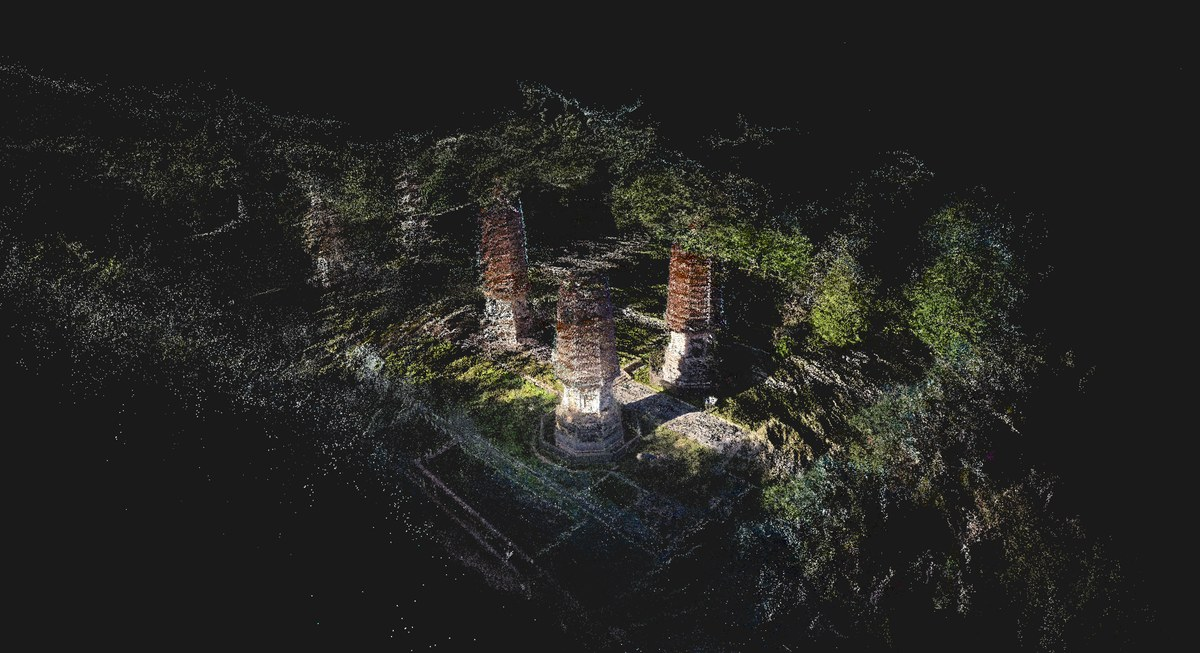
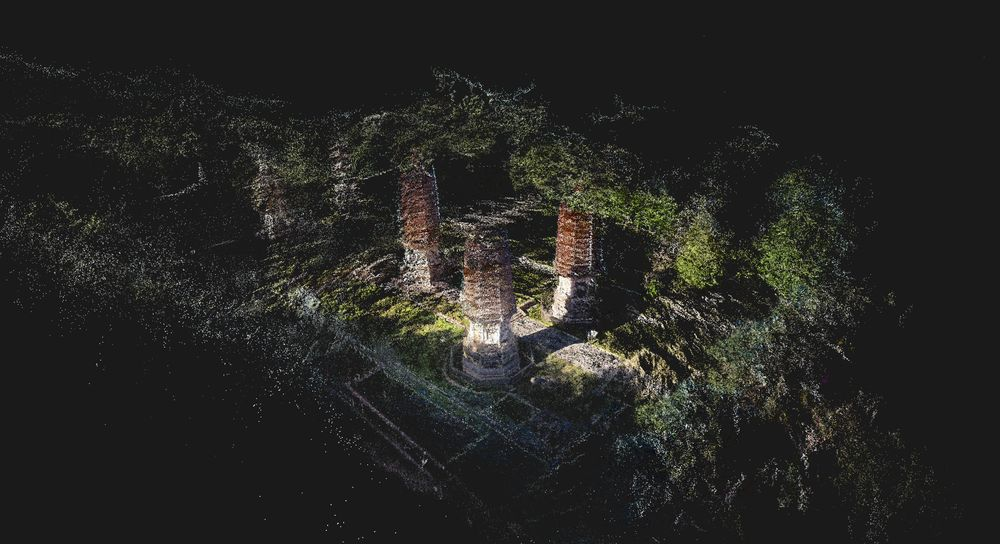
chore: compress showcase images and remove personal paths
compress gif 5.2MB->2.3MB, static/real images; replace personal 20260823 paths in README/config/bootstrap

diff --git a/skill/scripts/bootstrap.py b/skill/scripts/bootstrap.py
@@ -23,18 +23,10 @@ from pathlib import Path
 GITHUB_REPO = "https://github.com/FemtoRhythm/insta360-3dgs"
 
 # 本机已知部署位置，作为「自动识别」的候选路径；可自行增删。
-_KNOWN_PROJECT_CANDIDATES = [
-    Path(r"d:\Documents\WorkSpace\python\i2\20260828_3\insta360-3dgs"),
-]
-_KNOWN_MEDIASDK_CANDIDATES = [
-    Path(r"d:\Documents\WorkSpace\python\i2\20260828_3\sdk\MediaSDK\bin\MediaSDKTest.exe"),
-]
-_KNOWN_GS_DIR_CANDIDATES = [
-    Path(r"d:\Documents\WorkSpace\python\i2\20260828_3\20260823_1\gaussian-splatting"),
-]
-_KNOWN_PYLIBS_CANDIDATES = [
-    Path(r"d:\Documents\WorkSpace\python\i2\20260828_3\20260823_1\pylibs"),
-]
+_KNOWN_PROJECT_CANDIDATES: list[Path] = []
+_KNOWN_MEDIASDK_CANDIDATES: list[Path] = []
+_KNOWN_GS_DIR_CANDIDATES: list[Path] = []
+_KNOWN_PYLIBS_CANDIDATES: list[Path] = []
 
 
 # --------------------------------------------------------------------------- #
@@ -84,7 +76,7 @@ def resolve_deps(project: Path | None) -> dict[str, Path | None]:
 
     gs_dir = _pick(
         "INSTA360_3DGS_GS_DIR",
-        [parent / "20260823_1" / "gaussian-splatting"],
+        [parent / "gaussian-splatting"],
         _KNOWN_GS_DIR_CANDIDATES,
     )
     return {
@@ -96,7 +88,7 @@ def resolve_deps(project: Path | None) -> dict[str, Path | None]:
         "gs_dir": gs_dir,
         "pylibs": _pick(
             "INSTA360_3DGS_PYLIBS",
-            [parent / "20260823_1" / "pylibs"],
+            [parent / "pylibs"],
             _KNOWN_PYLIBS_CANDIDATES,
         ),
         "runtime_python": (

diff --git a/src/insta360_3dgs/config.py b/src/insta360_3dgs/config.py
@@ -30,12 +30,12 @@ def _resolve_env(name: str, default: Path) -> Path:
 # gaussian-splatting 代码 + 已编译 CUDA 扩展 (diff-gaussian-rasterization / simple-knn)
 GAUSSIAN_SPLATTING_DIR = _resolve_env(
     "INSTA360_3DGS_GS_DIR",
-    PROJECT_ROOT.parent / "20260823_1" / "gaussian-splatting",
+    PROJECT_ROOT.parent / "gaussian-splatting",
 )
 # pycolmap 4.1.1 (cp311) 预编译包目录
 PYLIBS_DIR = _resolve_env(
     "INSTA360_3DGS_PYLIBS",
-    PROJECT_ROOT.parent / "20260823_1" / "pylibs",
+    PROJECT_ROOT.parent / "pylibs",
 )
 # MediaSDK 离线拼接可执行文件
 MEDIASDK_EXE = _resolve_env(

diff --git a/README.md b/README.md
@@ -56,8 +56,8 @@ uv sync
 | 环境变量 | 默认值 | 说明 |
 | --- | --- | --- |
 | `INSTA360_3DGS_MEDIASDK_EXE` | `../sdk/MediaSDK/bin/MediaSDKTest.exe` | MediaSDK 拼接程序 |
-| `INSTA360_3DGS_GS_DIR` | `../20260823_1/gaussian-splatting` | gaussian-splatting 目录 |
-| `INSTA360_3DGS_PYLIBS` | `../20260823_1/pylibs` | pycolmap 预编译包 |
+| `INSTA360_3DGS_GS_DIR` | `../gaussian-splatting` | gaussian-splatting 目录 |
+| `INSTA360_3DGS_PYLIBS` | `../pylibs` | pycolmap 预编译包 |
 | `INSTA360_3DGS_RUNTIME_PYTHON` | `<GS_DIR>/.venv/Scripts/python.exe` | 跑重型阶段的解释器 |
 
 ## 使用
@@ -65,7 +65,7 @@ uv sync
 一条命令跑完，输入可以是单个 `.insv` 文件，也可以是装了一堆 `.insv` 的目录：
 
 ```bash
-uv run insta360-3dgs run --input VID_20260823_215314_00_006.insv --output out/
+uv run insta360-3dgs run --input example_00_006.insv --output out/
 # 或整个目录，训练完顺手做质量评估
 uv run insta360-3dgs run --input ./raw_clips --output out/ --verify
 ```
